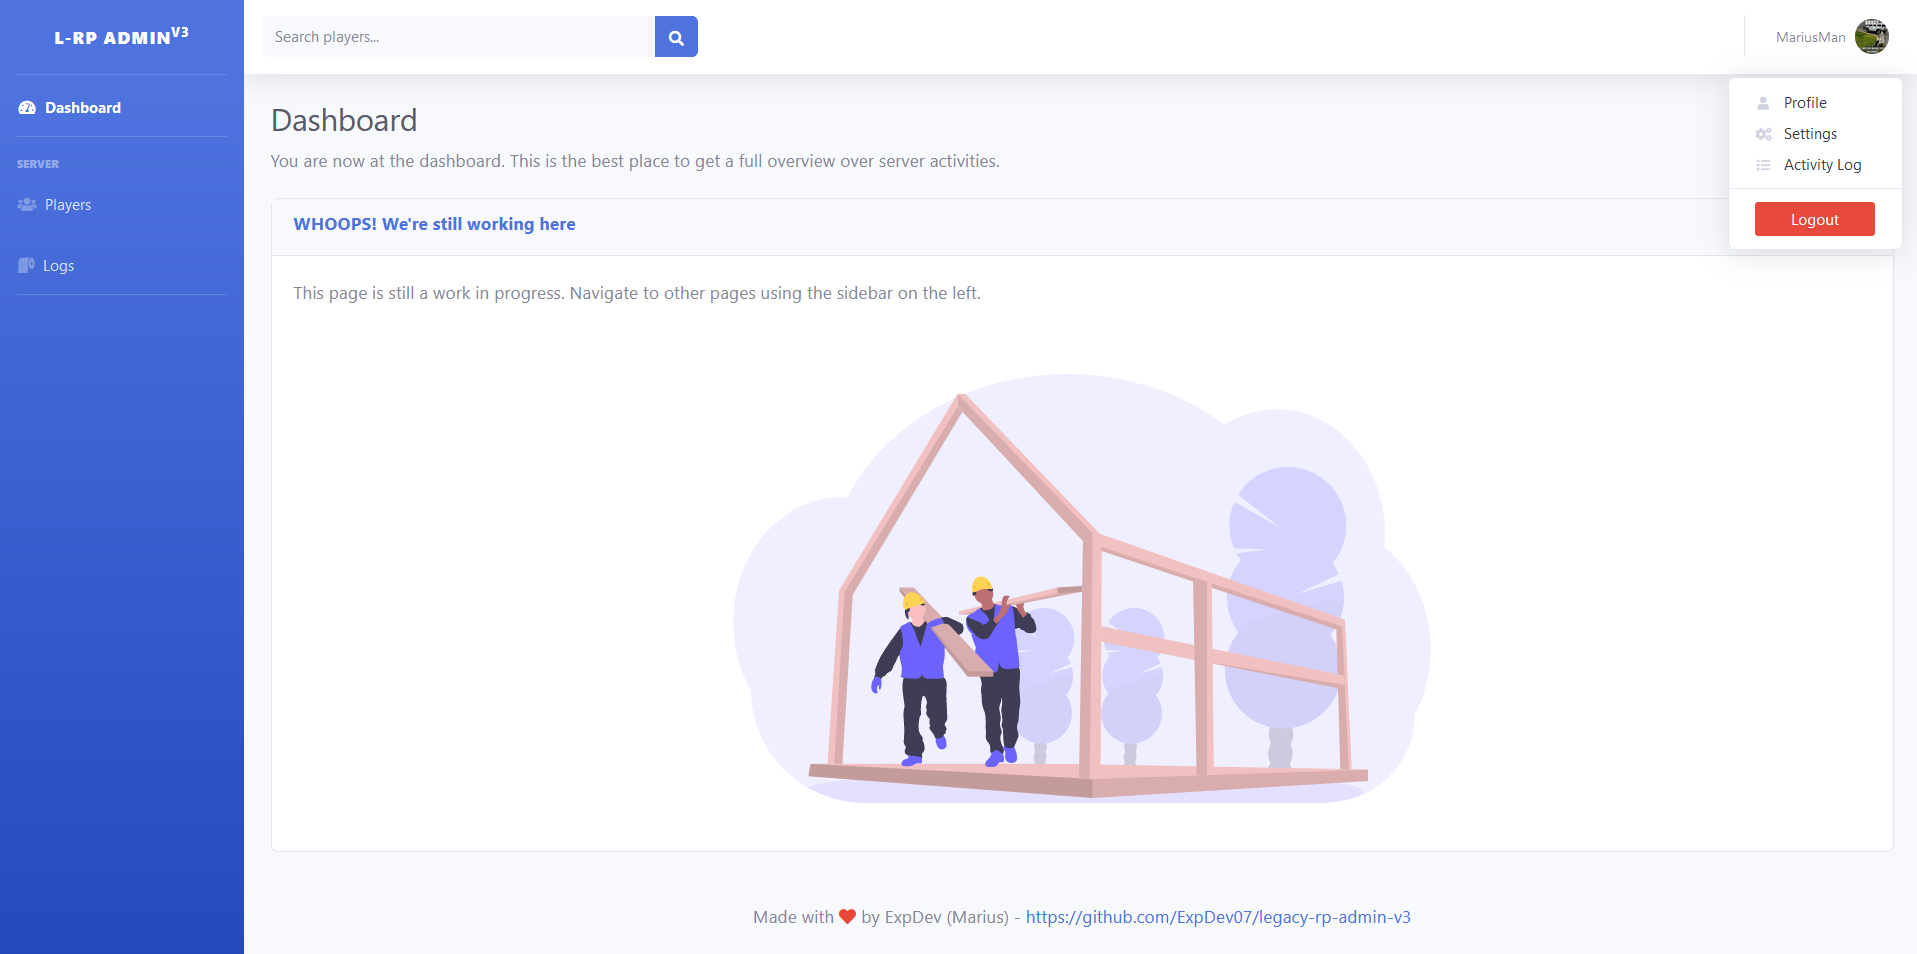
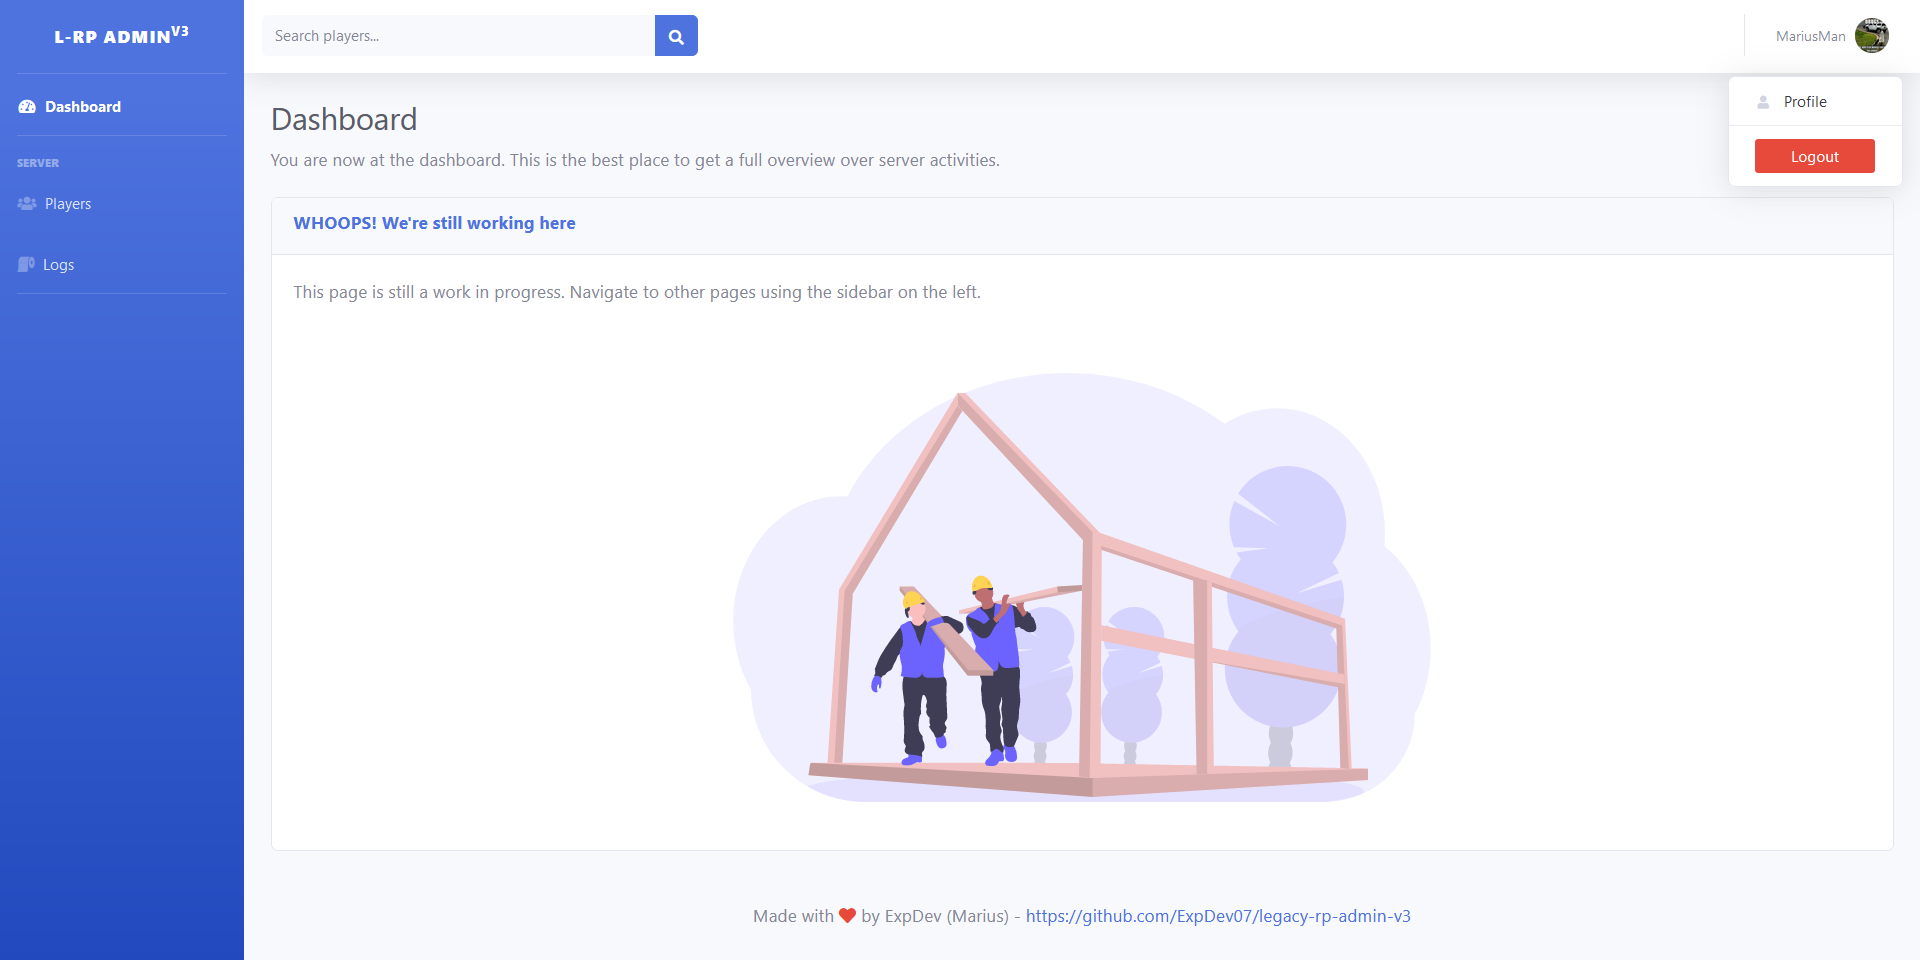
logs done - need some refactoring later, but works for now

diff --git a/resources/views/logs/index.blade.php b/resources/views/logs/index.blade.php
@@ -3,9 +3,87 @@
 @section('title', 'Server Logs')
 
 @section('description')
-    This page shows all logged actions that occurred on the game-server.
+    <div class="d-sm-flex align-items-center justify-content-between">
+        <p class="m-0">
+            This page shows all logged actions that occurred on the game-server.
+        </p>
+
+        <!-- Refresh button -->
+        <div class="d-none d-lg-block">
+            <a class="btn btn-sm btn-primary btn-icon-split" href="{{ route('logs.index', request()->query()) }}">
+                <!-- Icon -->
+                <span class="icon"><i class="fas fa-redo"></i></span>
+
+                <!-- Text -->
+                <span class="text">
+                    Refresh
+                </span>
+            </a>
+        </div>
+    </div>
 @endsection
 
 @section('main')
+    <!-- Results row -->
+    <div class="row">
+        <div class="col">
+            <div class="card">
+                <div class="card-body">
+                    @if ($logs->isEmpty())
+                        <p>
+                            No logged actions were found yet. Someone's gotta do something first... Happy logging!
+                        </p>
+                        <div class="text-center">
+                            <img class="img-fluid mt-5" style="width: 30rem" src="{{ asset('images/signal_searching.svg') }}" alt="">
+                        </div>
+                    @else
+                        <!-- The table row -->
+                        <div class="row">
+                            <div class="col">
+                                <div class="table-responsive">
+                                    <table class="table table-bordered" id="dataTable">
+                                        <thead>
+                                        <tr>
+                                            <th>Action</th>
+                                            <th>Player</th>
+                                            <th>Details</th>
+                                        </tr>
+                                        </thead>
+                                        <tbody>
+                                        @foreach ($logs as $log)
+                                            <tr>
+                                                <!-- Action -->
+                                                <td>{{ $log->action }}</td>
 
+                                                <!-- Player that did the action -->
+                                                <td>
+                                                    @if ($player = $log->player)
+                                                        <a href="{{ route('players.show', compact('player')) }}">
+                                                            {{ $player->name }}
+                                                        </a>
+                                                    @else
+                                                        No player.
+                                                    @endif
+                                                </td>
+
+                                                <!-- Details -->
+                                                <td>{{ $log->details }}</td>
+                                            </tr>
+                                        </tbody>
+                                        @endforeach
+                                    </table>
+                                </div>
+                            </div>
+                        </div>
+                        <!-- Pagination row -->
+                        <div class="row mt-2">
+                            <div class="col">
+                                {{ $logs->appends(request()->query())->links() }}
+                            </div>
+                        </div>
+                    @endif
+                </div>
+            </div>
+        </div>
+    </div>
 @endsection

diff --git a/resources/views/players/show.blade.php b/resources/views/players/show.blade.php
@@ -3,8 +3,10 @@
 @section('title', $player->name)
 
 @section('description')
-    Viewing the profile of {{ $player->name }} ({{ $player->identifier }}). Here you can perform various administrative
-    actions related to this player.
+    <p>
+        Viewing the profile of {{ $player->name }} ({{ $player->identifier }}). Here you can perform various administrative
+        actions related to this player.
+    </p>
 @endsection
 
 @section('main')
@@ -55,7 +57,8 @@
             <div class="card border-left-primary">
                 <div class="card-header">
                     <div class="d-sm-flex align-items-center justify-content-between">
-                        <h5 class="text-primary">Player Information</h5>
+                        <!-- Title -->
+                        <h6 class="text-primary font-weight-bold">Player Information</h6>
 
                         <!-- Ban player button -->
                         @if (!$player->isBanned())
@@ -89,6 +92,17 @@
                             </span>
                         </a>
                     @endif
+
+                    <!-- Viewing logs -->
+                    <a class="btn btn-sm btn-primary btn-icon-split" href="{{ route('logs.index', [ 'player' => $player->identifier ]) }}">
+                        <!-- Icon -->
+                        <span class="icon"><i class="fas fa-toilet-paper"></i></span>
+
+                        <!-- Text -->
+                        <span class="text">
+                            View Logs
+                        </span>
+                    </a>
                 </div>
             </div>
         </div>
@@ -101,7 +115,7 @@
                 <div class="card-header">
                     <div class="d-sm-flex align-items-center justify-content-between">
                         <!-- Title -->
-                        <h5 class="text-primary">Warnings</h5>
+                        <h6 class="text-primary font-weight-bold">Warnings</h6>
 
                         <!-- Add warning button -->
                         <a class="btn btn-danger btn-sm btn-icon-split" href="#" data-toggle="modal" data-target="#warningModal">

diff --git a/app/Player.php b/app/Player.php
@@ -113,15 +113,13 @@ class Player extends Model
     }
 
     /**
-     * Gets the bans.
+     * Gets the logs relationship.
      *
-     * @return Builder
+     * @return HasMany
      */
-    public function bans() : Builder
+    public function logs() : HasMany
     {
-        // Due to how banning works, there might exist a ban record for each of the player's identifier (steam, ip address
-        // rockstar license, etc), and it's important to get all.
-        return Ban::query()->whereIn('identifier', $this->getIdentifiers());
+        return $this->hasMany(Log::class, 'identifier', 'identifier');
     }
 
     /**
@@ -132,6 +130,18 @@ class Player extends Model
     public function warnings() : HasMany
     {
         return $this->hasMany(Warning::class);
+    }
+
+    /**
+     * Gets the query for bans.
+     *
+     * @return Builder
+     */
+    public function bans() : Builder
+    {
+        // Due to how banning works, there might exist a ban record for each of the player's identifier (steam, ip address
+        // rockstar license, etc), and it's important to get all.
+        return Ban::query()->whereIn('identifier', $this->getIdentifiers());
     }
 
 }
@@ -165,8 +175,7 @@ function get_steam_id(string $identifier) : SteamID
 {
     try {
         // Get rid of any prefix.
-        $parts = explode('steam:', $identifier);
-        return new SteamID(hexdec($parts[1]));
+        return new SteamID(hexdec(explode('steam:', $identifier)[1]));
     }
     catch (Exception $ex) {
         return null;

diff --git a/resources/views/layouts/dashboard.blade.php b/resources/views/layouts/dashboard.blade.php
@@ -111,18 +111,6 @@
                                         </a>
                                     @endif
 
-                                    <!-- Settings -->
-                                    <a class="dropdown-item" href="#">
-                                        <i class="fas fa-cogs fa-sm fa-fw mr-2 text-gray-400"></i>
-                                        Settings
-                                    </a>
-
-                                    <!-- Activity -->
-                                    <a class="dropdown-item" href="#">
-                                        <i class="fas fa-list fa-sm fa-fw mr-2 text-gray-400"></i>
-                                        Activity Log
-                                    </a>
-
                                     <!-- Divider -->
                                     <div class="dropdown-divider"></div>
 
@@ -147,9 +135,7 @@
                         <h3 class="text-dark">@yield('title')</h3>
 
                         <!-- Description -->
-                        <p>
-                            @yield('description')
-                        </p>
+                        @yield('description')
                     </div>
 
                     <!-- Main content -->

diff --git a/resources/views/players/index.blade.php b/resources/views/players/index.blade.php
@@ -3,8 +3,10 @@
 @section('title', 'Search players')
 
 @section('description')
-    Search players by their <span class="text-primary font-weight-bold">name or identifier</span>. Don't know somebody's
-    identifier? Use <a href="http://www.vacbanned.com/">VAC Banned</a> to help you specify your search.
+    <p>
+        Search players by their <span class="text-primary font-weight-bold">name or identifier</span>. Don't know somebody's
+        identifier? Use <a href="http://www.vacbanned.com/">VAC Banned</a> to help you specify your search.
+    </p>
 @endsection
 
 @section('main')
@@ -30,7 +32,7 @@
         <div class="col">
             <div class="card">
                 <div class="card-header">
-                    <h5 class="text-primary font-weight-bold">Players Found ({{ number_format($players->total()) }})</h5>
+                    <h6 class="text-primary font-weight-bold">Players Found ({{ number_format($players->total()) }})</h6>
                 </div>
                 <div class="card-body">
                     @if ($players->isEmpty())

diff --git a/app/Http/Controllers/LogController.php b/app/Http/Controllers/LogController.php
@@ -12,11 +12,20 @@ class LogController extends Controller
     /**
      * Display a listing of the resource.
      *
+     * @param Request $request
      * @return Response
      */
-    public function index()
+    public function index(Request $request)
     {
-        return view('logs.index', [ 'logs' => Log::query()->latest()->simplePaginate(20) ]);
+        // Begin querying the logs.
+        $builder = Log::query()->latest();
+
+        // Filtering by player.
+        if ($player = $request->get('player')) {
+            $builder->where('identifier', $player);
+        }
+
+        return view('logs.index', [ 'logs' => $builder->simplePaginate(20) ]);
     }
 
 }

diff --git a/database/migrations/2019_08_07_022756_create_warnings_table.php b/database/migrations/2019_08_07_022756_create_warnings_table.php
@@ -17,7 +17,6 @@ class CreateWarningsTable extends Migration
             $table->bigIncrements('id');
             $table->unsignedBigInteger('issuer_id');
             $table->unsignedBigInteger('player_id');
-            $table->string("type")->nullable();
             $table->text('message');
             $table->timestamps();
         });

diff --git a/resources/views/index.blade.php b/resources/views/index.blade.php
@@ -1,7 +1,9 @@
 @extends('layouts.dashboard')
 
 @section('description')
-    You are now at the dashboard. This is the best place to get a full overview over server activities.
+    <p>
+        You are now at the dashboard. This is the best place to get a full overview over server activities.
+    </p>
 @endsection
 
 @section('main')

diff --git a/database/factories/LogFactory.php b/database/factories/LogFactory.php
@@ -1,0 +1,15 @@
+<?php
+
+/** @var Factory $factory */
+
+use App\Log;
+use Faker\Generator as Faker;
+use Illuminate\Database\Eloquent\Factory;
+
+$factory->define(Log::class, function (Faker $faker) {
+    return [
+        'action'   => 'example-action',
+        'details'  => $faker->sentence,
+        'metadata' => []
+    ];
+});

diff --git a/app/Http/Controllers/Player/WarningController.php b/app/Http/Controllers/Player/WarningController.php
@@ -24,7 +24,6 @@ class WarningController extends Controller
         $player->warnings()->create(array_merge($request->validated(), [
             'issuer_id' => $request->user()->player->id,
         ]));
-
         return back();
     }
 

diff --git a/app/Warning.php b/app/Warning.php
@@ -23,7 +23,7 @@ class Warning extends Model
      * @var array
      */
     protected $fillable = [
-        'issuer_id', 'type', 'message'
+        'issuer_id', 'message',
     ];
 
     /**

diff --git a/app/Http/Controllers/Player/BanController.php b/app/Http/Controllers/Player/BanController.php
@@ -30,7 +30,6 @@ class BanController extends Controller
             ]));
 
         }
-
         return back();
     }
 
